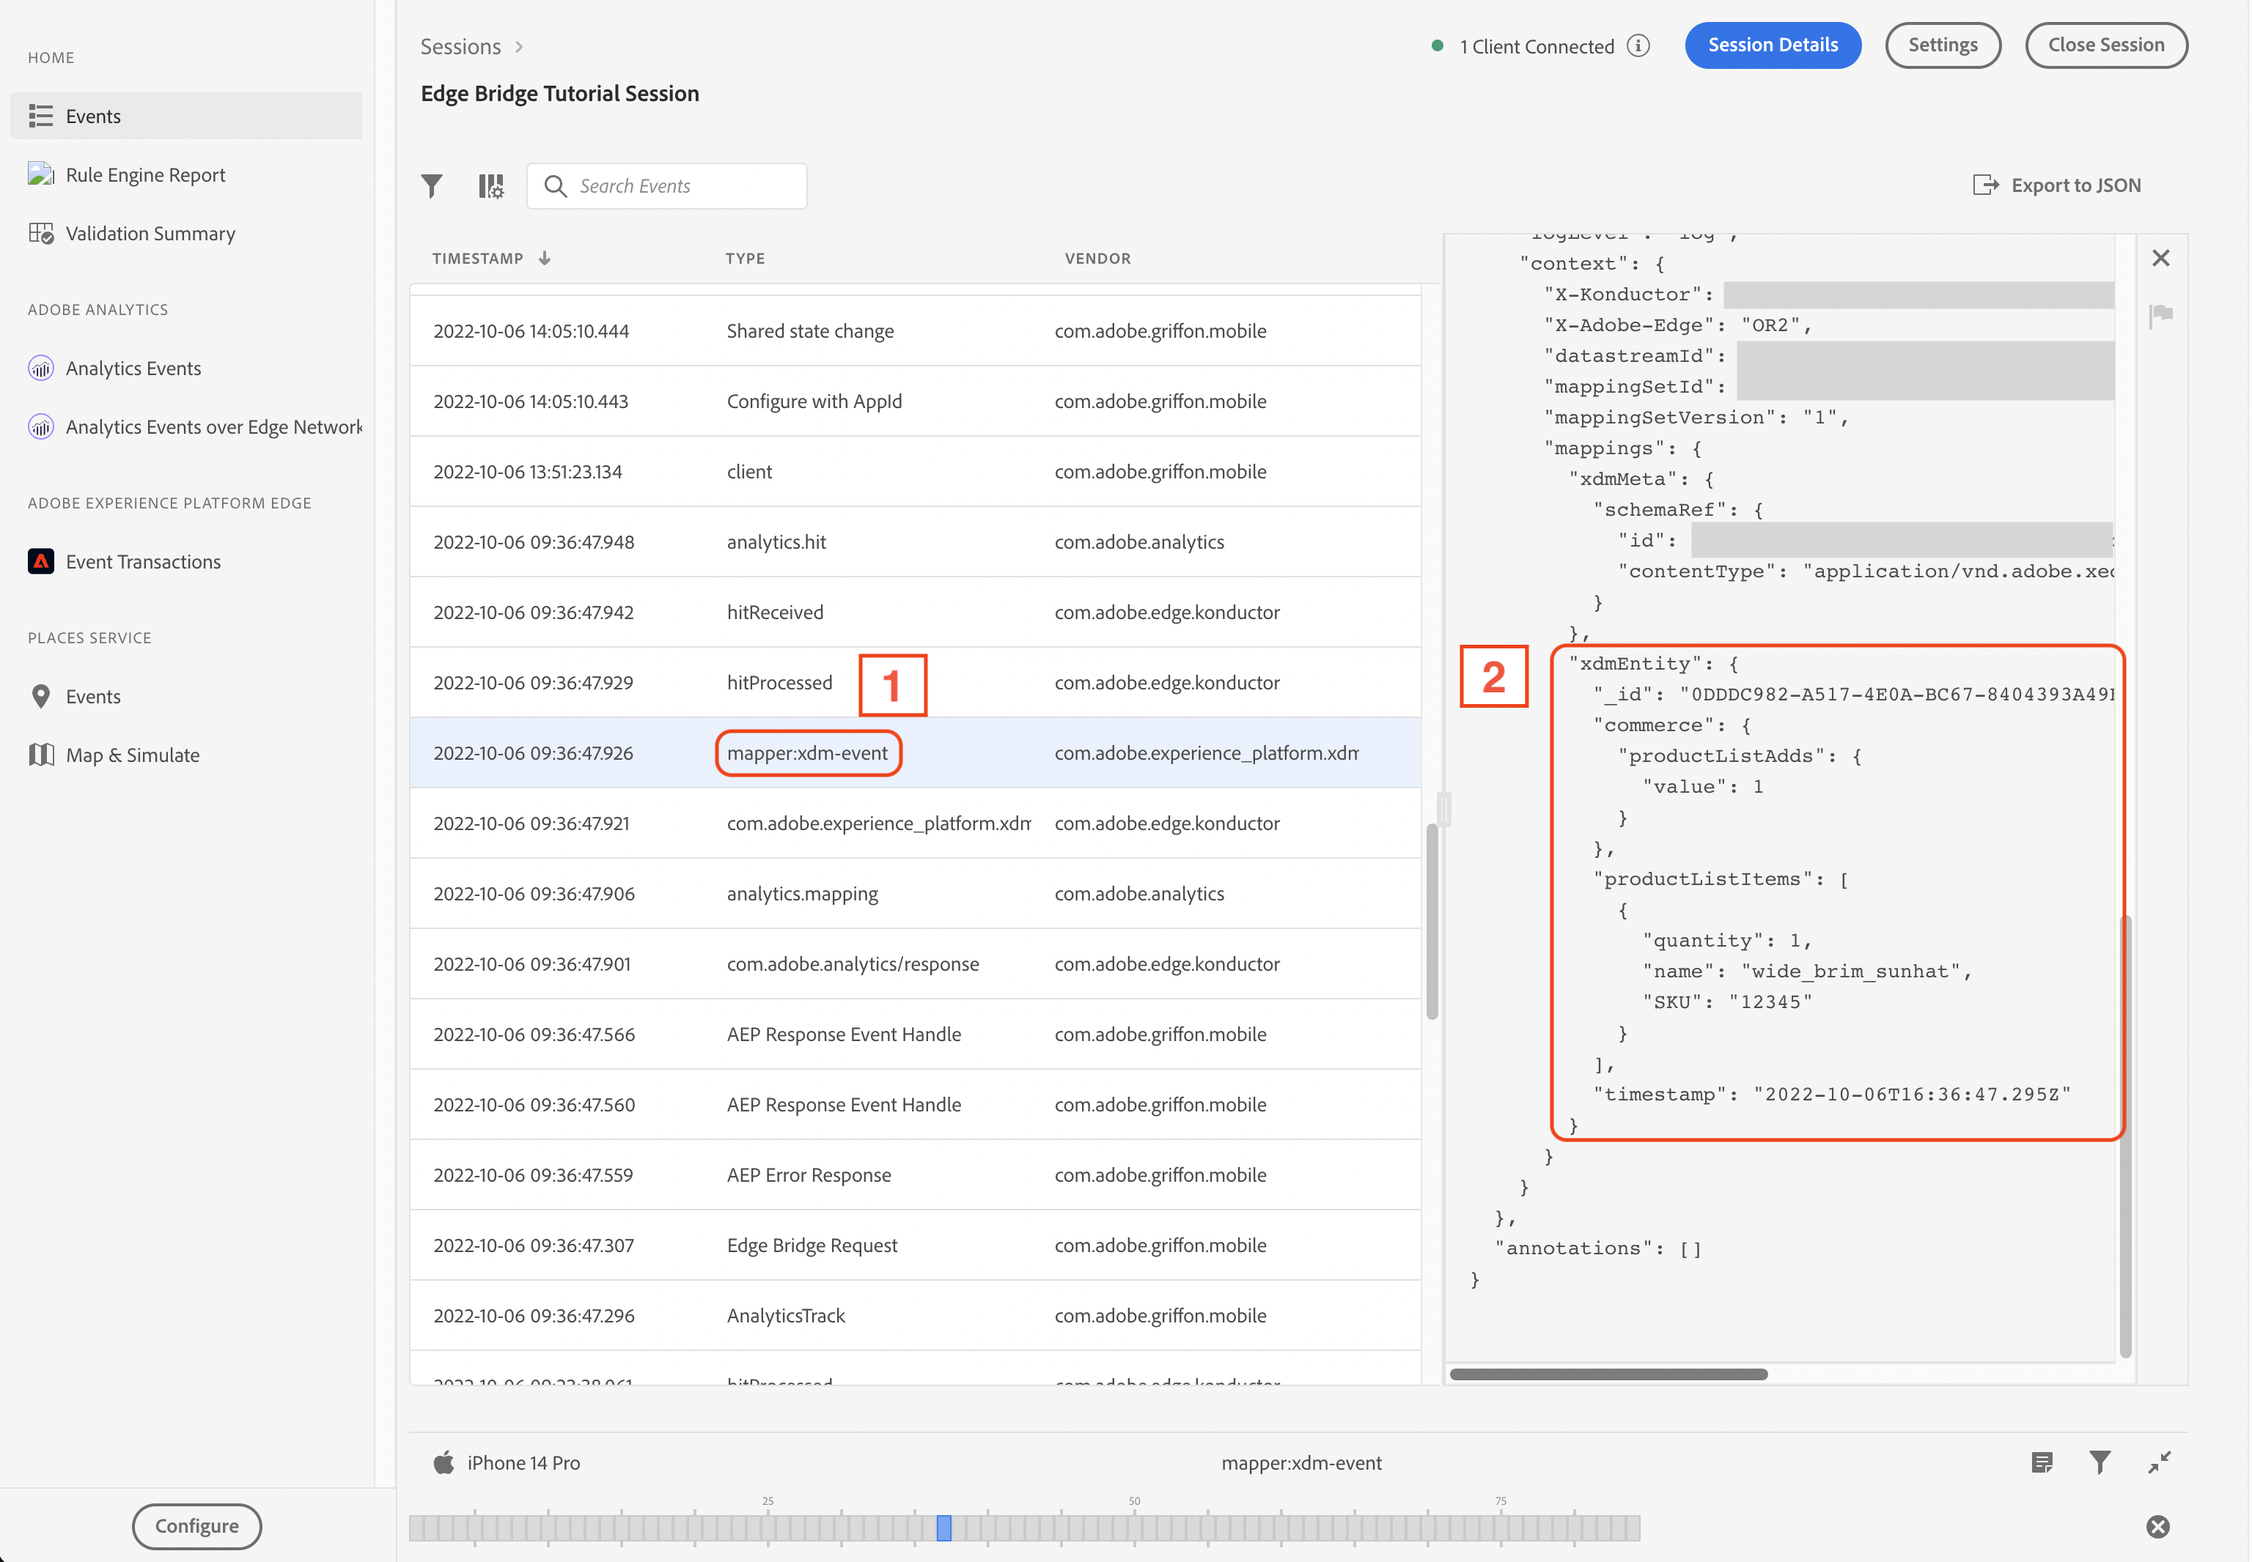
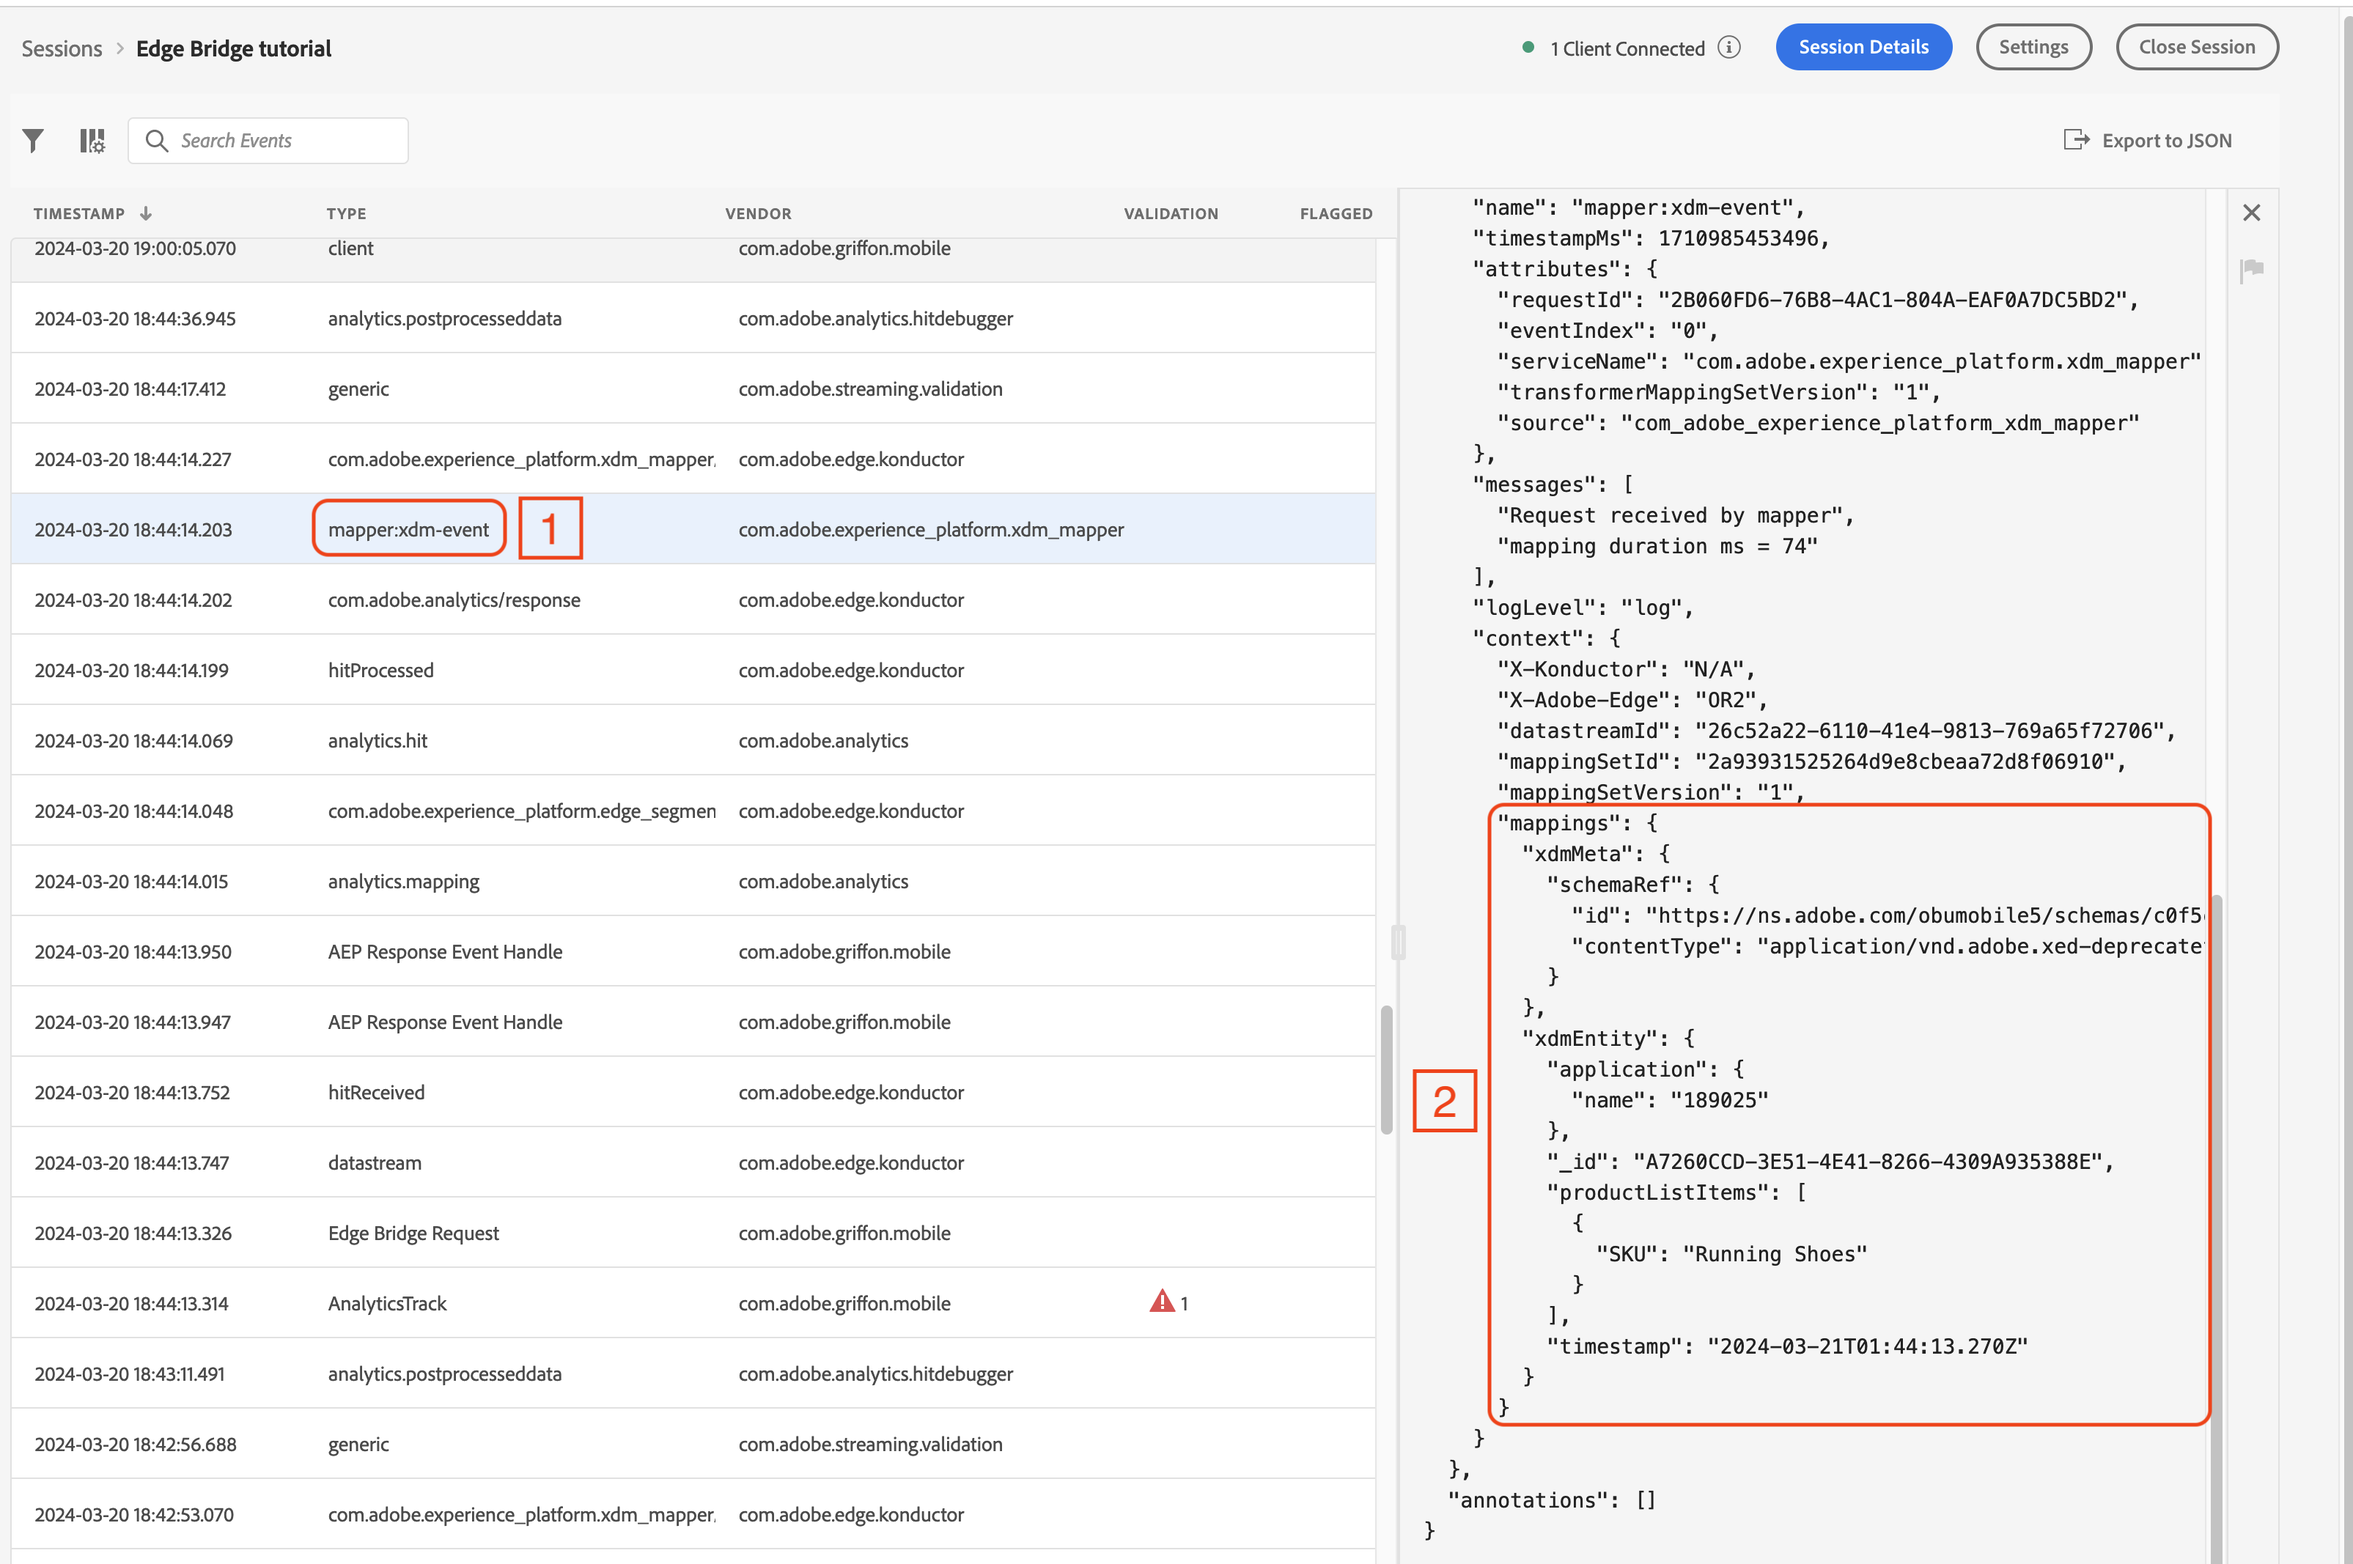
Update diagrams and assurance images

diff --git a/Documentation/tutorials/edge-bridge-tutorial.md b/Documentation/tutorials/edge-bridge-tutorial.md
@@ -20,19 +20,19 @@
 - [Optional - Data Prep for Data Collection mapping](#optional---data-prep-for-data-collection-mapping)
   - [Mapping custom `contextData` keys](#mapping-custom-contextdata-keys)
   - [Mapping calculated fields using Analytics functions](#mapping-calculated-fields-using-analytics-functions)
-- [Validation using Assurance](#validation-using-assurance)
+- [Validating Data Prep mapping using Assurance](#validating-data-prep-mapping-using-assurance)
 
 ## Overview
 This tutorial covers how to use Edge Bridge as a drop-in solution for migrating from an existing Analytics implementation to sending data via the Edge Network to Analytics.
 
 ```mermaid
-graph LR;
-    step1(1<br/>Existing Adobe Analytics app) -->
+graph TD;
+    step1(1<br/>Existing app using Adobe Analytics) -->
     step2(2<br/>Adobe Experience Platform<br/>Update server-side configuration) --> 
-    step3(3<br/>Edge Bridge<br/>Send event data to the Edge Network & Analytics) --> 
-    step4(4<br/>Assurance<br/>Verify event data formats) -->
-    step5(5<br/>Data mapper<br/>Map data to XDM - Edge network data format) -->
-    step6(6<br/>Assurance<br/>Verify trackAction/trackState to XDM conversion)
+    step3(3<br/>Edge Bridge<br/>Update app to send event data via Edge Network to Analytics) --> 
+    step4(4<br/>Assurance<br/>Verify implementation) -. "Optionally" .-> 
+    step5("5<br/>Data mapper<br/>Map event data to Experience Data Model (XDM) format") -->
+    step6(6<br/>Assurance<br/>Verify event data to XDM conversion);
 ```
 
 ### Environment
@@ -45,7 +45,7 @@ graph LR;
 2. A tag (also known as a mobile property) configured in the Data Collection UI, which has the Adobe Analytics extension installed and configured.
 
 <details>
-  <summary> <h3>Adobe Experience Platform setup - Skip this section if prerequisite item 1 has already been set up</h3> </summary>
+  <summary> <h3>Adobe Experience Platform setup - Skip this section if prerequisite item 2 has already been set up</h3> </summary>
 
 ## Adobe Experience Platform setup
 This section demonstrates how to create and configure a mobile property in Experience Platform, which controls the configuration settings for the Mobile SDK extensions used in this tutorial.
@@ -457,17 +457,17 @@ After creating the desired mappings, select **Save** in the top right.
 
 After creating the desired mappings, select **Save** in the top right.
 
-## Validation using Assurance
+## Validating Data Prep mapping using Assurance
 Now that the mapping is set up in the datastream, we have the full pathway of data:
 
 ```mermaid
 graph LR;
-    step1(App<br/>Analytics trackAction/trackState) --> step2(App<br/>Edge Bridge conversion to Edge event) --> step3(Edge Network<br/>Datastream translation of payload from contextdata to Edge XDM) --> step4(Edge Network<br/>Routing XDM data using datastream to Analytics);
+    step1(App<br/>Analytics track events) --> step2(App<br/>Edge Bridge conversion to Edge event) --> step3(Edge Network<br/>Datastream mapping of event data to XDM) --> step4(Edge Network<br/>Upstream applications);
 ```
 
-By using the Event Transactions view in the left-side navigation panel, the logical flow of events from `trackAction` event -> data mapping -> Analytics can be seen.
+By using the **Event Transactions** view in the left-side navigation panel, the logical flow of events from the event dispatched by the `trackAction` API -> data mapping can be seen.
 <img src="../assets/edge-bridge-tutorial/assurance-validation/assurance-event-transactions.png" alt="Assurance Event Transactions" width="1100"/>  
 
-Back in the Events view, the **mapper:xdm-event** (**1**) shows the result of the mapping from the Edge Bridge event's generic **data** -> **contextdata** structure into the XDM schema format (**2**).
+Back in the Events view, the **mapper:xdm-event** (**1**) shows the result of the mapping from the Edge Bridge event's data to the XDM schema format (**2**).
 <img src="../assets/edge-bridge-tutorial/assurance-validation/assurance-mapper-event.png" alt="Assurance mapper event" width="1100"/>  
 
